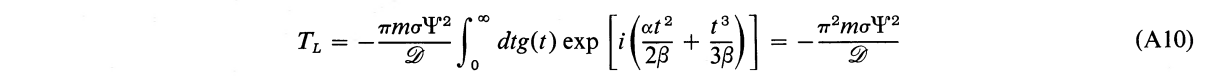
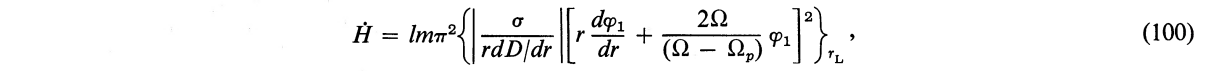
Update "Works on Density Wave" post: update torque parts

Changed region(s): [[0.2448, 0.0845, 0.7345, 0.9296], [0.9181, 0.3099, 1.0, 0.6761]]

diff --git a/source/_posts/Works-on-Density-Wave.md b/source/_posts/Works-on-Density-Wave.md
@@ -2,7 +2,7 @@
 title: Works on Density Wave
 math: true
 date: 2026-07-29 19:17:52
-updated: 2026-08-12 17:12:00
+updated: 2026-08-22 22:13:00
 categories:
     - fluid
 tags:
@@ -11,20 +11,17 @@ tags:
 
 - Lin, C. C., & Shu, F. H. (1964). On the spiral structure of disk galaxies. *The Astrophysical Journal*, *140*, 646. https://doi.org/10.1086/147955
 - Goldreich, P., & Tremaine, S. (1979). The excitation of density waves at the Lindblad and corotation resonances by an external potential. *The Astrophysical Journal*, *233*, 857–871. https://doi.org/10.1086/157448
+- Korycansky, D. G., & Pollack, J. B. (1993). Numerical calculations of the linear response of a gaseous disk to a protoplanet. *Icarus*, *102*(1), 150–165. https://doi.org/10.1006/icar.1993.1039
+- Tanaka, H., Takeuchi, T., & Ward, W. R. (2002). Three-dimensional interaction between a planet and an isothermal gaseous disk. I. Corotation and Lindblad torques and planet migration. *The Astrophysical Journal*, *565*(2), 1257–1274. https://doi.org/10.1086/324713
 - Tsang, D., & Lai, D. (2008). Super-reflection in fluid discs: Corotation amplifier, corotation resonance, Rossby waves and overstable modes. *Monthly Notices of the Royal Astronomical Society*, *387*(1), 446–462. https://doi.org/10.1111/j.1365-2966.2008.13252.x
 - Baruteau, C., & Masset, F. (2008). On the corotation torque in a radiatively inefficient disk. *The Astrophysical Journal*, *672*(2), 1054–1067. https://doi.org/10.1086/523667
+- Olver, F. W. J., Lozier, D. W., Boisvert, R. F., & Clark, C. W. (Eds.). (2010). *NIST handbook of mathematical functions*. Cambridge University Press. https://dlmf.nist.gov/
+- Tsang, D. (2011). Protoplanetary disk resonances and type I migration. *The Astrophysical Journal*, *741*(2), 109. https://doi.org/10.1088/0004-637X/741/2/109
 - Tsang, D. (2014). Linear corotation torques in non-barotropic disks. *The Astrophysical Journal*, *782*(2), 112. https://doi.org/10.1088/0004-637X/782/2/112
-
 - Miranda, R., & Rafikov, R. R. (2019). Multiple spiral arms in protoplanetary disks: Linear theory. *The Astrophysical Journal*, *875*(1), 37. https://doi.org/10.3847/1538-4357/ab0f9e
 - Miranda, R., & Rafikov, R. R. (2020). Planet–disk interaction in disks with cooling: Basic theory. *The Astrophysical Journal*, *892*(1), 65. https://doi.org/10.3847/1538-4357/ab791a
-
-- Tanaka, H., Takeuchi, T., & Ward, W. R. (2002). Three-dimensional interaction between a planet and an isothermal gaseous disk. I. Corotation and Lindblad torques and planet migration. *The Astrophysical Journal*, *565*(2), 1257–1274. https://doi.org/10.1086/324713
-
 - Su, Z., & Wei, X. (2025). Gravitational instability in protoplanetary disk with cooling: 2D global analysis. *The Astrophysical Journal*, *983*(2), 89. https://doi.org/10.3847/1538-4357/adc0ff
 
-- Olver, F. W. J., Lozier, D. W., Boisvert, R. F., & Clark, C. W. (Eds.). (2010). *NIST handbook of mathematical functions*. Cambridge University Press. https://dlmf.nist.gov/
-
-- Tsang, D. (2011). Protoplanetary disk resonances and type I migration. *The Astrophysical Journal*, *741*(2), 109. https://doi.org/10.1088/0004-637X/741/2/109
 
 <!-- more -->
 
@@ -130,33 +127,40 @@ tags:
 
 ## Torques and AMF
 
+the net torque on the disk: 
+$$
+T_\text{tot}=\int_{r_\text{in}}^{r_\text{out}}\frac{\mathrm{d}T}{\mathrm{d}r}\mathrm{d}r,\quad \frac{\mathrm{d}T}{\mathrm{d}r}=\frac{\mathrm{d}F_A}{\mathrm{d}r}
+$$
+contains three parts ($\mathrm{d}F_A/\mathrm{d}r=0$ in adiabatic disk):
+the outer Lindblad torque: $T_\text{OLR}=F_A(x\rightarrow\infty)$
+the inner Lindblad torque: $T_\text{ILR}=-F_A(x\rightarrow-\infty)$
+the corotation torque: $T_\text{CR}=-[F_A(+0)-F_A(-0)]$
+
+{% note info %}
+$$
+\begin{aligned}
+T_\text{tot}=\int_{r_\text{in}}^{r_\text{out}}&=\int_{r_\text{in}}^{-0}+\int_{+0}^{r_\text{out}} \\
+&=-F_A(r_\text{in})+F_A(-0)-F_A(+0)+F_A(r_\text{out}) \\
+&=T_\text{ILR}+T_\text{CR}+T_\text{OLR}
+\end{aligned}
+$$
+{% endnote %}
+
 - Goldreich & Tremaine (1979) calculated the torque on the disk by determining the angular momentum flux (AMF) exerted only by the inhomogeneous wave (i.e. Equation (39) in Miranda and Rafikov (2020))
 
     ![GT79 Torque at Lindblad resonance](GT79_T_LR.png)
     ![GT79 Torque at corotation resonance](GT79_T_CR.png)
 
-- Tanaka et al. (2002) gave the torque on the disk from the planet for adiabatic disk:
+    here they ignore the temperature gradient, and ignore the density gradient in Lindblad torque.
 
-    the net torque on the disk: 
-    $$
-    T_\text{tot}=\int_{r_\text{in}}^{r_\text{out}}\frac{\mathrm{d}T}{\mathrm{d}r}\mathrm{d}r,\quad \frac{\mathrm{d}T}{\mathrm{d}r}=\frac{\mathrm{d}F_A}{\mathrm{d}r}
-    $$
-    contains three parts ($\mathrm{d}F_A/\mathrm{d}r=0$ in adiabatic disk):
-    the outer Lindblad torque: $T_\text{OLR}=F_A(x\rightarrow\infty)$
-    the inner Lindblad torque: $T_\text{ILR}=-F_A(x\rightarrow-\infty)$
-    the corotation torque: $T_\text{CR}=-[F_A(+0)-F_A(-0)]$
+- Korycansky and Pollack (1993) used numerical method to give the Lindblad torque (here $a,b$ represent $\sigma\propto r^{-a}$, $c\propto r^{-b}$, i.e., consider the density gradient and temperature gradient.)
 
-    {% note info %}
-    $$
-    \begin{aligned}
-    T_\text{tot}=\int_{r_\text{in}}^{r_\text{out}}&=\int_{r_\text{in}}^{r_\text{IL}}+\int_{r_\text{IL}}^{-0}+\int_{+0}^{r_\text{OL}}+\int_{r_\text{OL}}^{r_\text{out}} \\
-    &=-F_A(r_\text{in})+F_A(-0)-F_A(+0)+F_A(r_\text{out}) \\
-    &=T_\text{ILR}+T_\text{CR}+T_\text{OLR}
-    \end{aligned}
-    $$
-    {% endnote %}
+    ![KP93 Torque at Lindblad resonance](KP93_T_L.png)
 
-    ![T02 T_LR](T02_T_L.png)
+    agree with the results from Goldreich & Tremaine (1979), but there is difference in the corotation torque.
+
+- Tanaka et al. (2002) gave the new analytical corotation torque to explain the difference from (Korycansky & Pollack ,1993) to (Goldreich & Tremaine, 1979)
+
     ![T02 T_CR](T02_T_C.png)
 
 - Miranda and Rafikov (2020) gave the torque on the disk with $\beta$ cooling:
